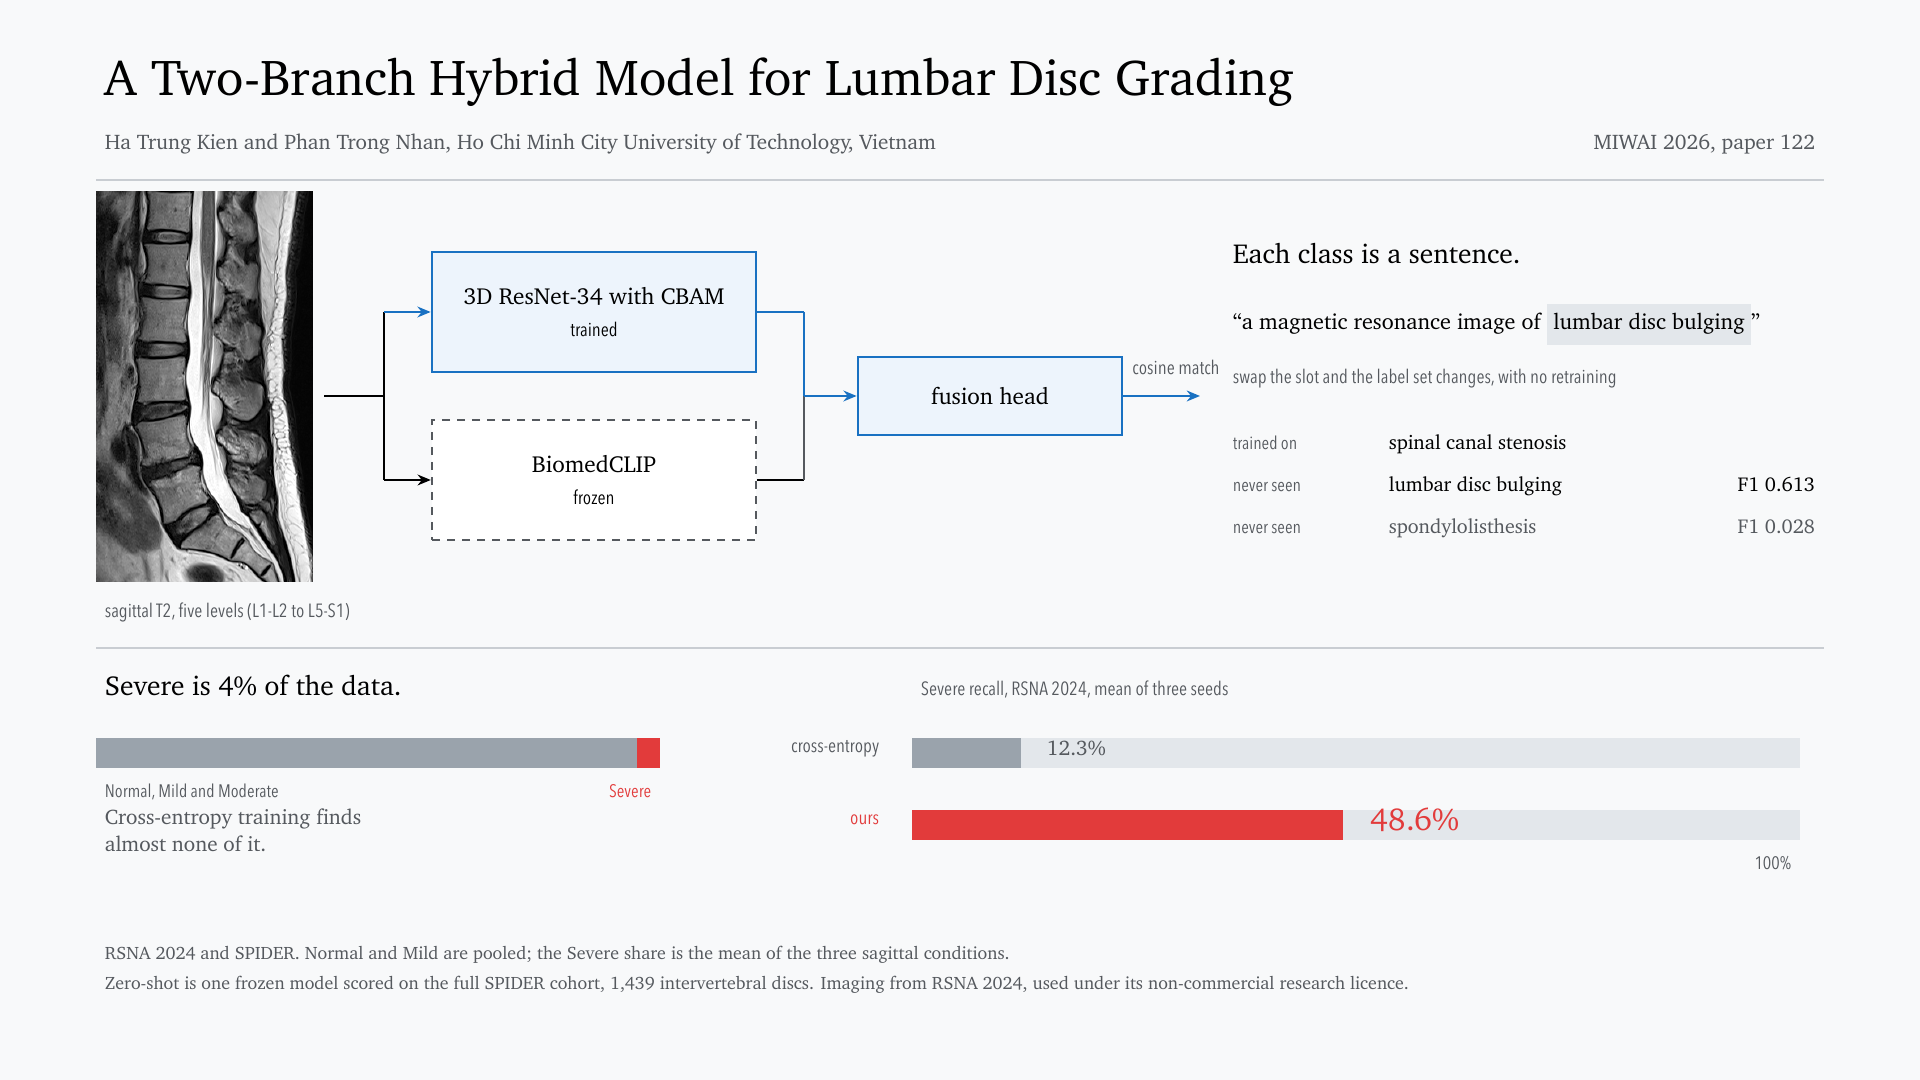
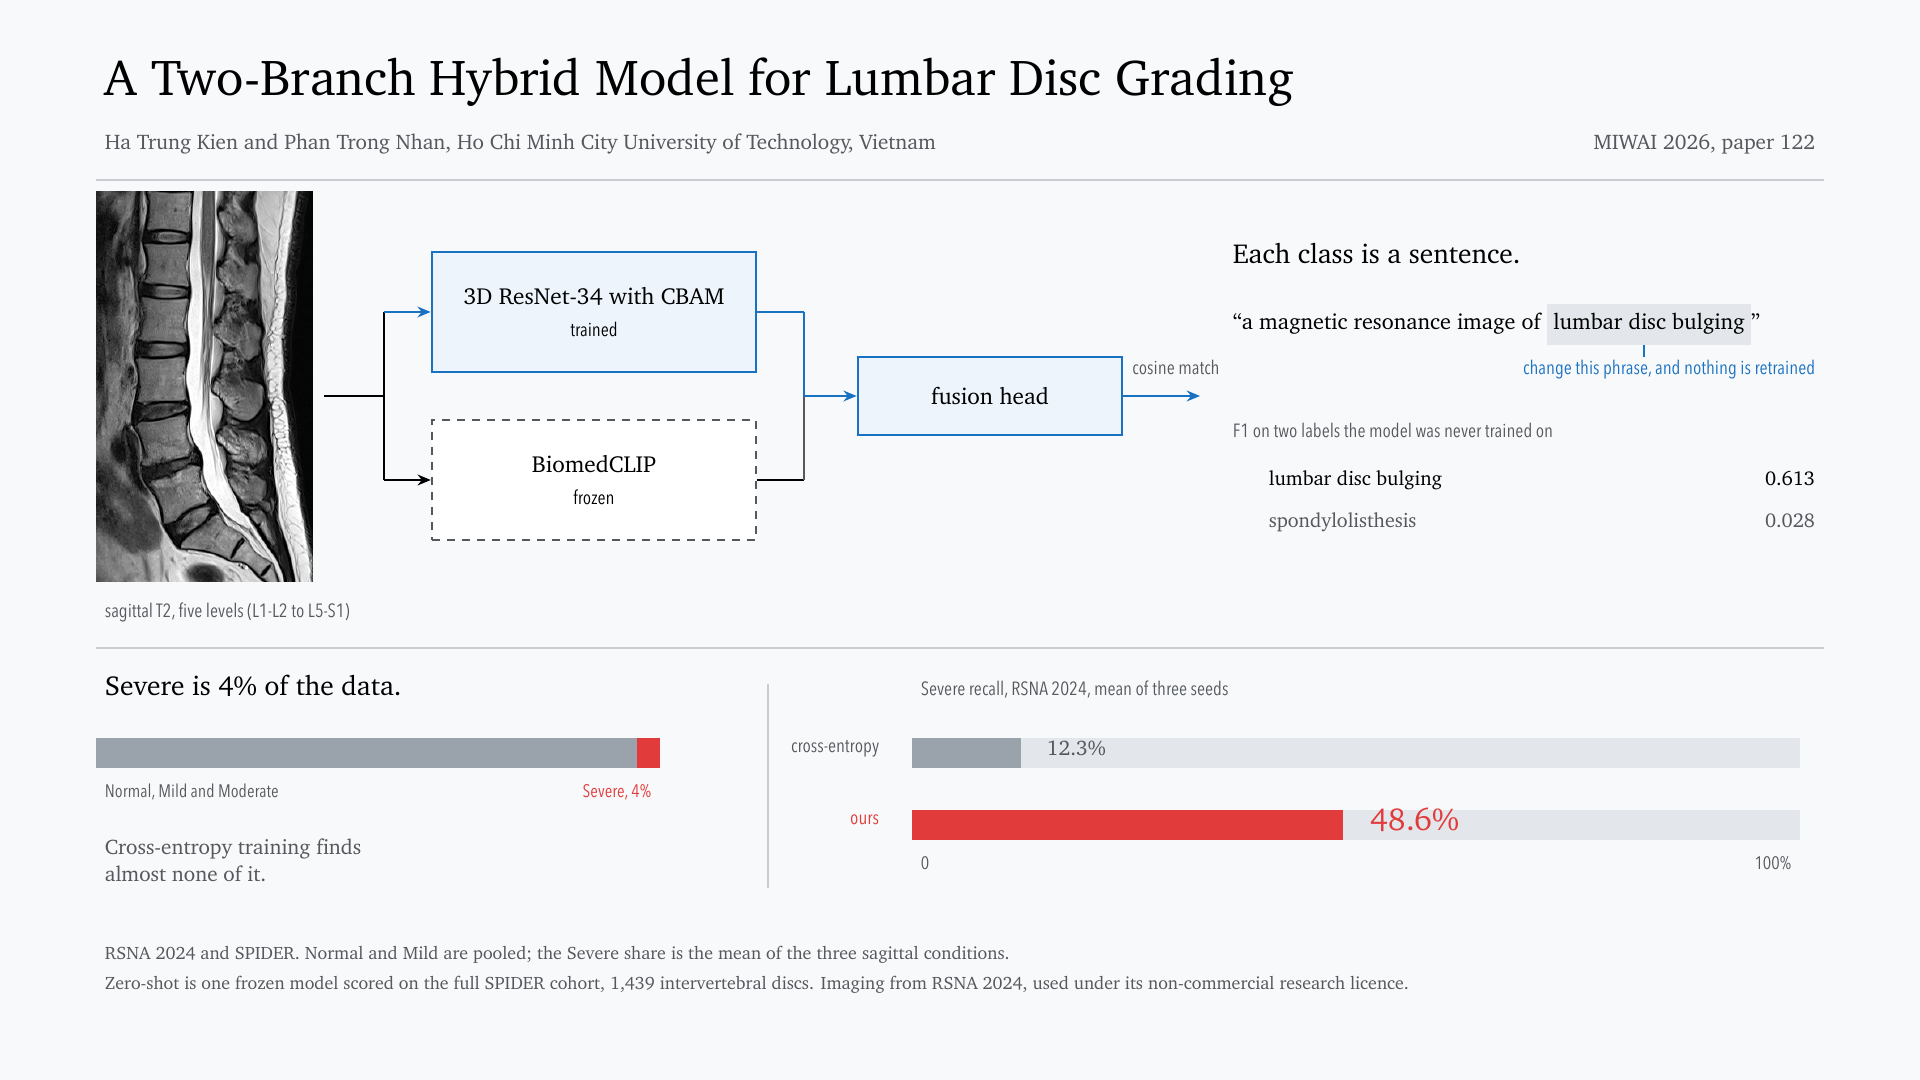
miwai(async): the prompt block and the lower band were not readable
The prompt block asked the reader to work too much. It said "swap the slot",
which names nothing on the page, and then listed three labels against a bare
number column with no heading, so the numbers could have been anything and two
rows both said "never seen" without saying why that mattered. It now marks the
phrase itself with a tick and a line saying what changing it does, and the two
numbers sit under a heading that says what they are and that the model never
trained on those labels. The third row is gone; two labels, one that works and
one that does not, make the point the paper actually makes.

The lower band put a share of the data and a detection rate side by side in the
same idiom, grey bar with a red part, and nothing said they were different
quantities. There is now a divider between them, the Severe segment carries its
own 4% instead of relying on the heading, the recall axis has a zero as well as
a hundred, and the sentence below has room so it stops reading as a third chart
label.

diff --git a/paper/camera_ready/miwai_async/infographic.tex b/paper/camera_ready/miwai_async/infographic.tex
@@ -106,25 +106,24 @@
 
 %% ---------------------------------------------- what the classifier actually is
 % The paper's most distinctive idea is that the classifier is not a weight
-% matrix but a list of sentences. Printing a real prompt, with the swappable
-% slot marked, is the one thing on this page no template would produce.
+% matrix but a list of sentences. Earlier this block listed three labels with a
+% bare number column and the word "slot", which explained neither what was
+% being swapped nor what the number was. Now a caret ties the highlighted
+% phrase to the instruction, and the numbers carry their own heading.
 \node[anchor=base west, font=\fontsize{13}{16}\selectfont]
      at (204,136) {Each class is a sentence.};
 \node[anchor=base west, font=\fontsize{10.5}{13}\selectfont] at (204,125)
      {``a magnetic resonance image of \colorbox{slot}{\strut lumbar disc bulging}''};
+\draw[trained, line width=0.35mm] (274,122.5) -- (274,120.5);
+\node[anchor=base east, text=trained, font=\cond\fontsize{9}{11}\selectfont]
+     at (304,117.5) {change this phrase, and nothing is retrained};
+
 \node[anchor=base west, text=ink70, font=\cond\fontsize{9}{11}\selectfont]
-     at (204,116) {swap the slot and the label set changes, with no retraining};
-
-\node[anchor=base west, text=ink70, font=\cond\fontsize{8.5}{10}\selectfont] at (204,105) {trained on};
-\node[anchor=base west, font=\fontsize{9.5}{12}\selectfont] at (230,105) {spinal canal stenosis};
-
-\node[anchor=base west, text=ink70, font=\cond\fontsize{8.5}{10}\selectfont] at (204,98) {never seen};
-\node[anchor=base west, font=\fontsize{9.5}{12}\selectfont] at (230,98) {lumbar disc bulging};
-\node[anchor=base east, font=\fontsize{9.5}{12}\selectfont] at (304,98) {F1 0.613};
-
-\node[anchor=base west, text=ink70, font=\cond\fontsize{8.5}{10}\selectfont] at (204,91) {never seen};
-\node[anchor=base west, text=ink70, font=\fontsize{9.5}{12}\selectfont] at (230,91) {spondylolisthesis};
-\node[anchor=base east, text=ink70, font=\fontsize{9.5}{12}\selectfont] at (304,91) {F1 0.028};
+     at (204,107) {F1 on two labels the model was never trained on};
+\node[anchor=base west, font=\fontsize{9.5}{12}\selectfont] at (210,99) {lumbar disc bulging};
+\node[anchor=base east, font=\fontsize{9.5}{12}\selectfont] at (304,99) {0.613};
+\node[anchor=base west, text=ink70, font=\fontsize{9.5}{12}\selectfont] at (210,92) {spondylolisthesis};
+\node[anchor=base east, text=ink70, font=\fontsize{9.5}{12}\selectfont] at (304,92) {0.028};
 
 \draw[rule, line width=0.2mm] (16,72) -- (304,72);
 
@@ -138,9 +137,14 @@
 \node[anchor=base west, text=ink70, font=\cond\fontsize{8.5}{10}\selectfont]
      at (16,47) {Normal, Mild and Moderate};
 \node[anchor=base east, text=signal, font=\cond\fontsize{8.5}{10}\selectfont]
-     at (110,47) {Severe};
+     at (110,47) {Severe, 4\%};
 \node[anchor=base west, text=ink70, font=\fontsize{10}{13}\selectfont, align=left]
-     at (16,38) {Cross-entropy training finds\\almost none of it.};
+     at (16,33) {Cross-entropy training finds\\almost none of it.};
+
+% A divider, because the left bar is a share of the data and the right bars are
+% a detection rate. Two unlike quantities in the same visual idiom read as one
+% chart unless something says they are not.
+\draw[rule, line width=0.2mm] (128,32) -- (128,66);
 
 \node[anchor=base west, text=ink70, font=\cond\fontsize{9}{11}\selectfont]
      at (152,64) {Severe recall, RSNA 2024, mean of three seeds};
@@ -156,6 +160,7 @@
 \node[anchor=base west, text=signal, font=\fontsize{15}{17}\selectfont] at (227,41.5) {48.6\%};
 
 \node[anchor=base east, text=ink70, font=\cond\fontsize{8.5}{10}\selectfont] at (300,35) {100\%};
+\node[anchor=base west, text=ink70, font=\cond\fontsize{8.5}{10}\selectfont] at (152,35) {0};
 
 %% ------------------------------------------------------------- provenance
 \node[anchor=base west, text=ink70, font=\fontsize{8.5}{11}\selectfont]
